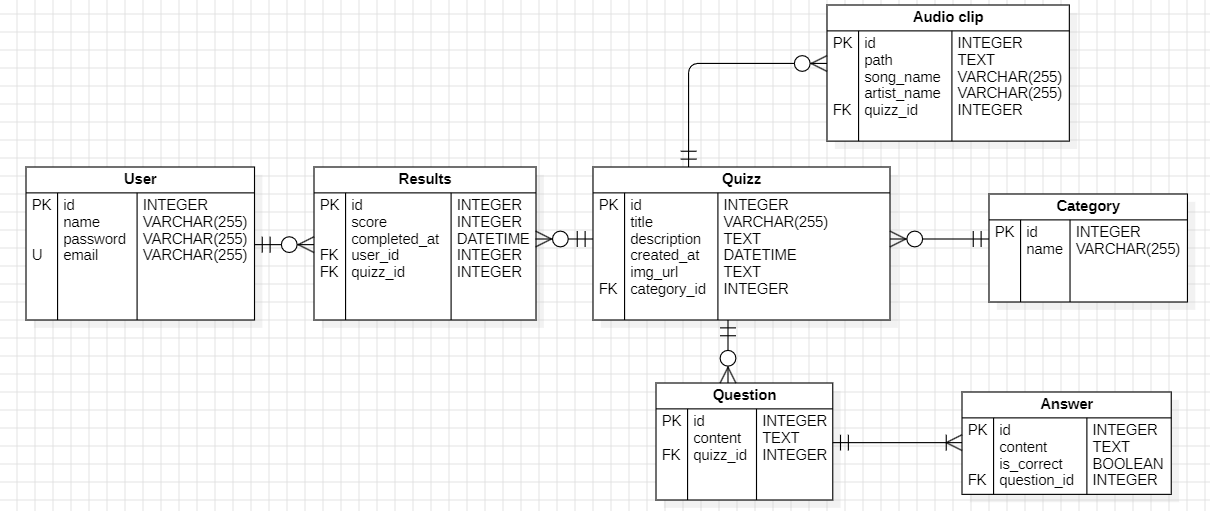
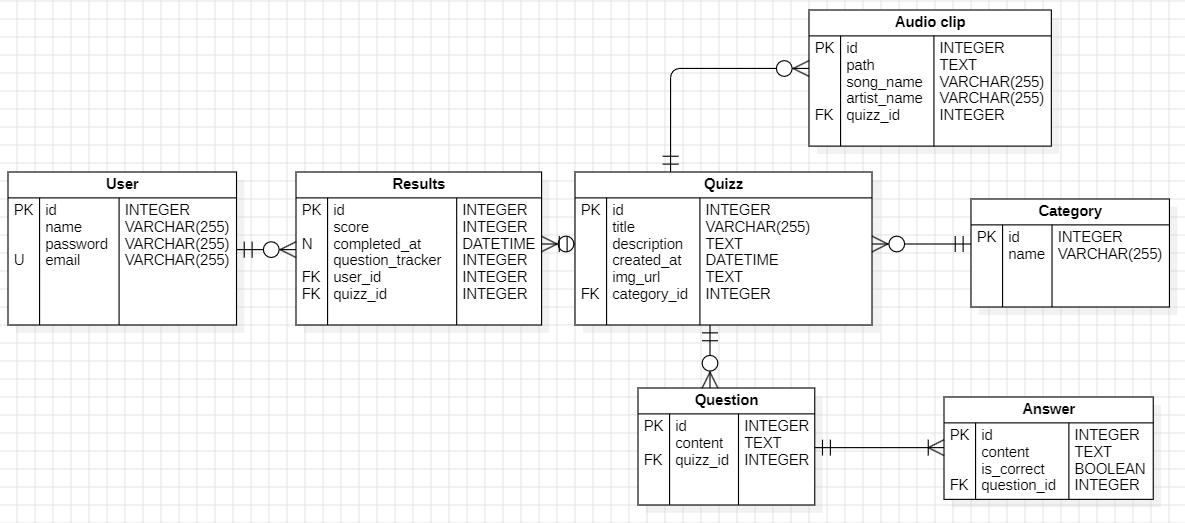
completed BDD

diff --git a/src/Entity/Results.php b/src/Entity/Results.php
@@ -1,0 +1,95 @@
+<?php
+
+namespace App\Entity;
+
+use App\Repository\ResultsRepository;
+use Doctrine\ORM\Mapping as ORM;
+
+#[ORM\Entity(repositoryClass: ResultsRepository::class)]
+class Results
+{
+    #[ORM\Id]
+    #[ORM\GeneratedValue]
+    #[ORM\Column]
+    private ?int $id = null;
+
+    #[ORM\Column]
+    private ?int $score = null;
+
+    #[ORM\Column(nullable: true)]
+    private ?\DateTimeImmutable $completedAt = null;
+
+    #[ORM\Column]
+    private ?int $questionTracker = null;
+
+    #[ORM\ManyToOne(inversedBy: 'results')]
+    private ?User $user = null;
+
+    #[ORM\ManyToOne(inversedBy: 'results')]
+    private ?Quizz $quizz = null;
+
+    public function getId(): ?int
+    {
+        return $this->id;
+    }
+
+    public function getScore(): ?int
+    {
+        return $this->score;
+    }
+
+    public function setScore(int $score): static
+    {
+        $this->score = $score;
+
+        return $this;
+    }
+
+    public function getCompletedAt(): ?\DateTimeImmutable
+    {
+        return $this->completedAt;
+    }
+
+    public function setCompletedAt(?\DateTimeImmutable $completedAt): static
+    {
+        $this->completedAt = $completedAt;
+
+        return $this;
+    }
+
+    public function getQuestionTracker(): ?int
+    {
+        return $this->questionTracker;
+    }
+
+    public function setQuestionTracker(int $questionTracker): static
+    {
+        $this->questionTracker = $questionTracker;
+
+        return $this;
+    }
+
+    public function getUser(): ?User
+    {
+        return $this->user;
+    }
+
+    public function setUser(?User $user): static
+    {
+        $this->user = $user;
+
+        return $this;
+    }
+
+    public function getQuizz(): ?Quizz
+    {
+        return $this->quizz;
+    }
+
+    public function setQuizz(?Quizz $quizz): static
+    {
+        $this->quizz = $quizz;
+
+        return $this;
+    }
+}

diff --git a/src/Entity/User.php b/src/Entity/User.php
@@ -3,6 +3,8 @@
 namespace App\Entity;
 
 use App\Repository\UserRepository;
+use Doctrine\Common\Collections\ArrayCollection;
+use Doctrine\Common\Collections\Collection;
 use Doctrine\ORM\Mapping as ORM;
 use Symfony\Component\Security\Core\User\PasswordAuthenticatedUserInterface;
 use Symfony\Component\Security\Core\User\UserInterface;
@@ -33,6 +35,17 @@ class User implements UserInterface, PasswordAuthenticatedUserInterface
 
     #[ORM\Column(length: 255)]
     private ?string $name = null;
+
+    /**
+     * @var Collection<int, Results>
+     */
+    #[ORM\OneToMany(targetEntity: Results::class, mappedBy: 'user')]
+    private Collection $results;
+
+    public function __construct()
+    {
+        $this->results = new ArrayCollection();
+    }
 
     public function getId(): ?int
     {
@@ -112,6 +125,36 @@ class User implements UserInterface, PasswordAuthenticatedUserInterface
     public function setName(string $name): static
     {
         $this->name = $name;
+
+        return $this;
+    }
+
+    /**
+     * @return Collection<int, Results>
+     */
+    public function getResults(): Collection
+    {
+        return $this->results;
+    }
+
+    public function addResult(Results $result): static
+    {
+        if (!$this->results->contains($result)) {
+            $this->results->add($result);
+            $result->setUser($this);
+        }
+
+        return $this;
+    }
+
+    public function removeResult(Results $result): static
+    {
+        if ($this->results->removeElement($result)) {
+            // set the owning side to null (unless already changed)
+            if ($result->getUser() === $this) {
+                $result->setUser(null);
+            }
+        }
 
         return $this;
     }

diff --git a/src/Entity/Quizz.php b/src/Entity/Quizz.php
@@ -37,9 +37,16 @@ class Quizz
     #[ORM\OneToMany(targetEntity: Question::class, mappedBy: 'quizz')]
     private Collection $questions;
 
+    /**
+     * @var Collection<int, Results>
+     */
+    #[ORM\OneToMany(targetEntity: Results::class, mappedBy: 'quizz')]
+    private Collection $results;
+
     public function __construct()
     {
         $this->questions = new ArrayCollection();
+        $this->results = new ArrayCollection();
     }
 
     public function getId(): ?int
@@ -131,6 +138,36 @@ class Quizz
             // set the owning side to null (unless already changed)
             if ($question->getQuizz() === $this) {
                 $question->setQuizz(null);
+            }
+        }
+
+        return $this;
+    }
+
+    /**
+     * @return Collection<int, Results>
+     */
+    public function getResults(): Collection
+    {
+        return $this->results;
+    }
+
+    public function addResult(Results $result): static
+    {
+        if (!$this->results->contains($result)) {
+            $this->results->add($result);
+            $result->setQuizz($this);
+        }
+
+        return $this;
+    }
+
+    public function removeResult(Results $result): static
+    {
+        if ($this->results->removeElement($result)) {
+            // set the owning side to null (unless already changed)
+            if ($result->getQuizz() === $this) {
+                $result->setQuizz(null);
             }
         }
 

diff --git a/src/Repository/ResultsRepository.php b/src/Repository/ResultsRepository.php
@@ -1,0 +1,43 @@
+<?php
+
+namespace App\Repository;
+
+use App\Entity\Results;
+use Doctrine\Bundle\DoctrineBundle\Repository\ServiceEntityRepository;
+use Doctrine\Persistence\ManagerRegistry;
+
+/**
+ * @extends ServiceEntityRepository<Results>
+ */
+class ResultsRepository extends ServiceEntityRepository
+{
+    public function __construct(ManagerRegistry $registry)
+    {
+        parent::__construct($registry, Results::class);
+    }
+
+//    /**
+//     * @return Results[] Returns an array of Results objects
+//     */
+//    public function findByExampleField($value): array
+//    {
+//        return $this->createQueryBuilder('r')
+//            ->andWhere('r.exampleField = :val')
+//            ->setParameter('val', $value)
+//            ->orderBy('r.id', 'ASC')
+//            ->setMaxResults(10)
+//            ->getQuery()
+//            ->getResult()
+//        ;
+//    }
+
+//    public function findOneBySomeField($value): ?Results
+//    {
+//        return $this->createQueryBuilder('r')
+//            ->andWhere('r.exampleField = :val')
+//            ->setParameter('val', $value)
+//            ->getQuery()
+//            ->getOneOrNullResult()
+//        ;
+//    }
+}

diff --git a/src/Controller/QuizzController.php b/src/Controller/QuizzController.php
@@ -19,4 +19,14 @@ final class QuizzController extends AbstractController
             
         ]);
     }
+
+    #[Route('/quizz/{id}/play', name: 'playquizz')]
+    public function play(Quizz $quizz): Response
+    {
+        return $this->render('quizz/playquizz.html.twig', [
+            'controller_name' => 'QuizzController',
+            'quizz' => $quizz
+            
+        ]);
+    }
 }
